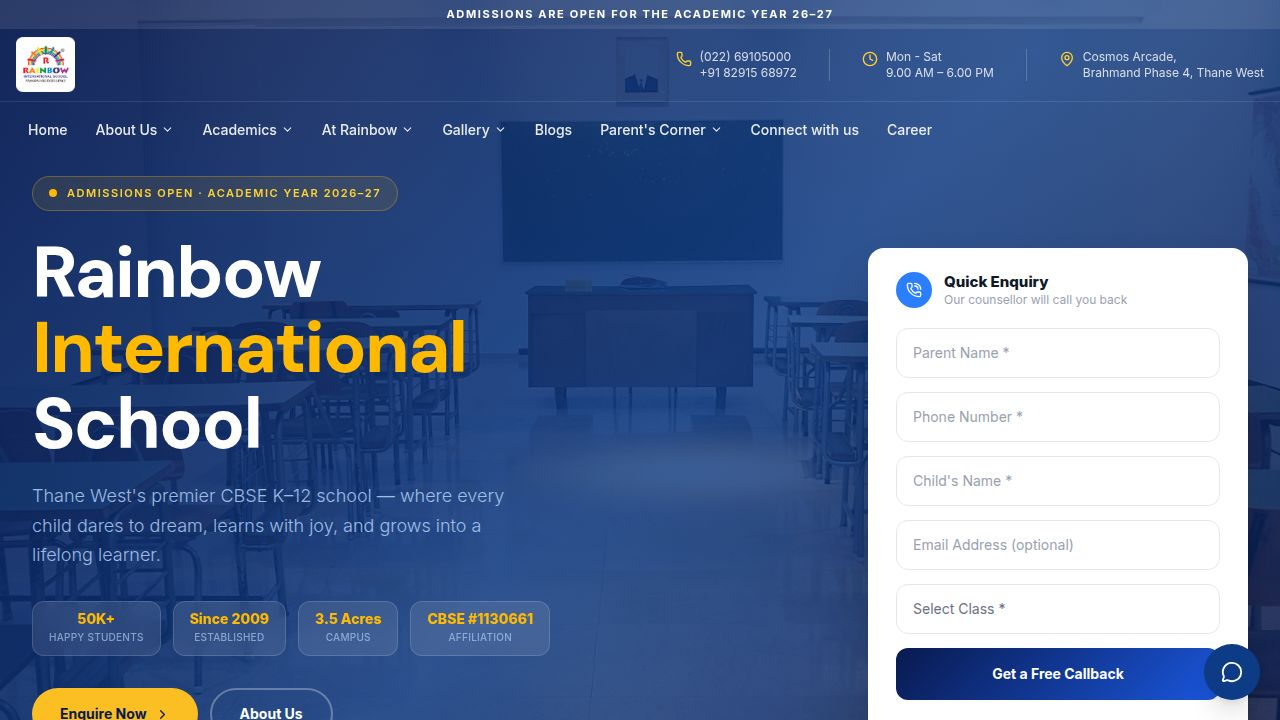
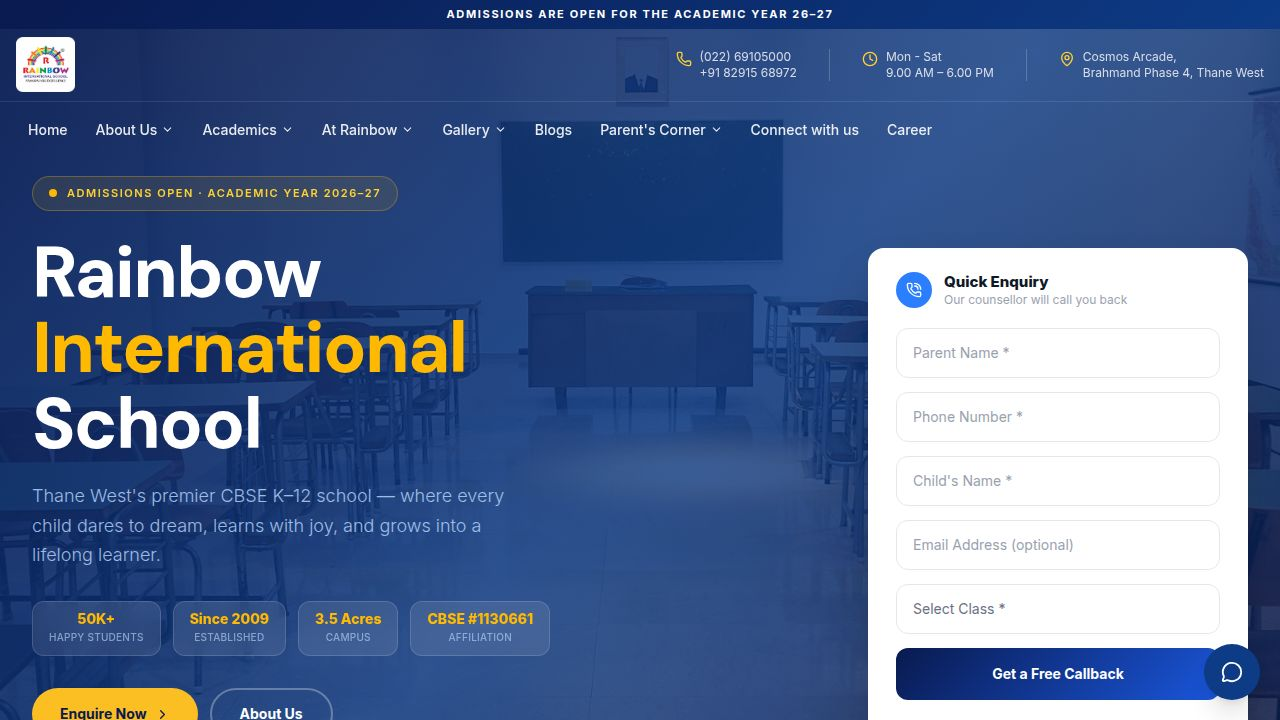
Add tracking of form submission source and page details
Integrate analytics to capture page path, title, and UTM parameters for form submissions, enhancing lead source tracking and reporting.

Replit-Commit-Author: Agent
Replit-Commit-Session-Id: 626ee0ab-79e0-4594-8c37-24950af4fe74
Replit-Commit-Checkpoint-Type: full_checkpoint
Replit-Commit-Event-Id: fc15009f-81f0-4377-a799-b3c8b0f3caf1
Replit-Commit-Screenshot-Url: https://storage.googleapis.com/screenshot-production-us-central1/3a7e2007-87f6-4891-a5f8-6a34c6a824f7/626ee0ab-79e0-4594-8c37-24950af4fe74/dzfqgXJ
Replit-Helium-Checkpoint-Created: true

Changed region(s): [[0.0, 0.0, 1.0, 0.0611]]

diff --git a/server/routes.ts b/server/routes.ts
@@ -33,6 +33,31 @@ function tableRow(label: string, value: string | undefined | null) {
   return `<tr><td style="padding:8px 14px;font-weight:bold;border-bottom:1px solid #eee;color:#091a4f;">${label}</td><td style="padding:8px 14px;border-bottom:1px solid #eee;">${value}</td></tr>`;
 }
 
+function getLeadSourceLabel(utmSource?: string | null, utmMedium?: string | null): string {
+  if (!utmSource && !utmMedium) return "Organic / Direct";
+  const src = (utmSource || "").toLowerCase();
+  const med = (utmMedium || "").toLowerCase();
+  if (src === "google" && (med === "cpc" || med === "paid" || med.includes("paid"))) return "Google Ads";
+  if (src === "facebook" || src === "instagram" || src === "meta") return "Meta Ads (Facebook/Instagram)";
+  if (med === "cpc" || med === "ppc" || med.includes("paid")) return `Paid Ads (${utmSource || "Unknown"})`;
+  if (med === "email") return "Email Campaign";
+  if (med === "social" || med === "organic_social") return `Social Media (${utmSource || "Unknown"})`;
+  if (med === "referral") return `Referral (${utmSource || "Unknown"})`;
+  return utmSource || "Organic / Direct";
+}
+
+function getMediumLabel(utmMedium?: string | null): string {
+  if (!utmMedium) return "Direct";
+  const med = utmMedium.toLowerCase();
+  if (med === "cpc" || med === "ppc") return "Paid Search";
+  if (med === "display") return "Display Ads";
+  if (med === "social" || med === "paid_social") return "Social";
+  if (med === "email") return "Email";
+  if (med === "referral") return "Referral";
+  if (med === "organic") return "Organic Search";
+  return utmMedium;
+}
+
 async function sendInquiryEmail(data: {
   parentName: string;
   email?: string | null;
@@ -41,12 +66,29 @@ async function sendInquiryEmail(data: {
   grade: string;
   preferredTime?: string | null;
   message?: string | null;
+  pagePath?: string | null;
+  pageTitle?: string | null;
+  formLocation?: string | null;
+  utmSource?: string | null;
+  utmMedium?: string | null;
+  utmCampaign?: string | null;
+  utmTerm?: string | null;
+  utmContent?: string | null;
 }) {
   const mailer = getTransporter();
   if (!mailer) {
     console.log("[inquiry] SMTP not configured — skipping email. Inquiry saved to DB.");
     return;
   }
+
+  const leadSource = getLeadSourceLabel(data.utmSource, data.utmMedium);
+  const leadMedium = getMediumLabel(data.utmMedium);
+  const isPaid = leadSource !== "Organic / Direct";
+
+  const formLocationLabel = data.formLocation || (data.pagePath === "/" ? "Homepage" : data.pagePath || "Unknown");
+  const pageLabel = data.pageTitle
+    ? `${data.pageTitle} (${data.pagePath || "/"})`
+    : data.pagePath || "/";
 
   await mailer.transport.sendMail({
     from: mailer.from,
@@ -68,6 +110,21 @@ async function sendInquiryEmail(data: {
           ${tableRow("Preferred Time", data.preferredTime)}
           ${tableRow("Message", data.message)}
         </table>
+
+        <div style="margin-top:16px;background:#f0f4ff;border:1px solid #d1daf0;border-radius:8px;padding:16px;">
+          <h3 style="margin:0 0 10px;font-size:14px;color:#091a4f;">📍 Submission Details</h3>
+          <table style="width:100%;border-collapse:collapse;font-size:13px;">
+            ${tableRow("Submitted From Page", pageLabel)}
+            ${tableRow("Form Location", formLocationLabel)}
+            ${tableRow("Lead Source", leadSource)}
+            ${tableRow("Lead Medium", leadMedium)}
+            ${isPaid ? tableRow("Campaign", data.utmCampaign) : ""}
+            ${isPaid ? tableRow("Ad Keyword / Term", data.utmTerm) : ""}
+            ${isPaid ? tableRow("Ad Content / Variant", data.utmContent) : ""}
+            ${isPaid ? tableRow("Platform", data.utmSource) : ""}
+          </table>
+        </div>
+
         <p style="color:#888;font-size:12px;margin-top:16px;padding:0 4px;">Submitted via the school website enquiry form.</p>
       </div>
     `,

diff --git a/shared/schema.ts b/shared/schema.ts
@@ -13,6 +13,14 @@ export const inquiries = pgTable("inquiries", {
   preferredTime: text("preferred_time"),
   source: text("source"),
   message: text("message"),
+  pagePath: text("page_path"),
+  pageTitle: text("page_title"),
+  formLocation: text("form_location"),
+  utmSource: text("utm_source"),
+  utmMedium: text("utm_medium"),
+  utmCampaign: text("utm_campaign"),
+  utmTerm: text("utm_term"),
+  utmContent: text("utm_content"),
   createdAt: timestamp("created_at").defaultNow().notNull(),
 });
 
@@ -28,6 +36,14 @@ export const insertInquirySchema = createInsertSchema(inquiries).omit({
   preferredTime: z.string().optional().or(z.literal("")),
   email: z.string().email("Please enter a valid email").optional().or(z.literal("")),
   message: z.string().optional().or(z.literal("")),
+  pagePath: z.string().optional().or(z.literal("")),
+  pageTitle: z.string().optional().or(z.literal("")),
+  formLocation: z.string().optional().or(z.literal("")),
+  utmSource: z.string().optional().or(z.literal("")),
+  utmMedium: z.string().optional().or(z.literal("")),
+  utmCampaign: z.string().optional().or(z.literal("")),
+  utmTerm: z.string().optional().or(z.literal("")),
+  utmContent: z.string().optional().or(z.literal("")),
 });
 
 export type InsertInquiry = z.infer<typeof insertInquirySchema>;

diff --git a/client/src/components/home/ContactForm.tsx b/client/src/components/home/ContactForm.tsx
@@ -4,7 +4,7 @@ import { zodResolver } from "@hookform/resolvers/zod";
 import { insertInquirySchema, type InsertInquiry } from "@shared/schema";
 import { toast } from "sonner";
 import { Send, MapPin, Phone, Mail, Clock, CheckCircle } from "lucide-react";
-import { trackFormSubmit, trackCallClick, trackDirectionsClick } from "@/lib/analytics";
+import { trackFormSubmit, trackCallClick, trackDirectionsClick, getFormTrackingData } from "@/lib/analytics";
 
 const classOptions = [
   "Nursery", "Jr. KG", "Sr. KG",
@@ -60,10 +60,11 @@ export function ContactForm() {
   const onSubmit = async (data: InsertInquiry) => {
     setIsSubmitting(true);
     try {
+      const trackingData = getFormTrackingData("Contact Section Form");
       const response = await fetch("/api/inquiries", {
         method: "POST",
         headers: { "Content-Type": "application/json" },
-        body: JSON.stringify(data),
+        body: JSON.stringify({ ...data, ...trackingData }),
       });
       if (!response.ok) throw new Error("Failed");
       trackFormSubmit({

diff --git a/client/src/components/home/Hero.tsx b/client/src/components/home/Hero.tsx
@@ -5,7 +5,7 @@ import { zodResolver } from "@hookform/resolvers/zod";
 import { insertInquirySchema, type InsertInquiry } from "@shared/schema";
 import { toast } from "sonner";
 import { PhoneCall, ChevronRight, CheckCircle2, CheckCircle } from "lucide-react";
-import { trackFormSubmit } from "@/lib/analytics";
+import { trackFormSubmit, getFormTrackingData } from "@/lib/analytics";
 
 const classOptions = [
   "Nursery", "Jr. KG", "Sr. KG",
@@ -32,10 +32,11 @@ export function Hero() {
   const onSubmit = async (data: InsertInquiry) => {
     setIsSubmitting(true);
     try {
+      const trackingData = getFormTrackingData("Hero Quick Enquiry");
       const res = await fetch("/api/inquiries", {
         method: "POST",
         headers: { "Content-Type": "application/json" },
-        body: JSON.stringify(data),
+        body: JSON.stringify({ ...data, ...trackingData }),
       });
       if (!res.ok) throw new Error();
       trackFormSubmit({

diff --git a/client/src/lib/analytics.ts b/client/src/lib/analytics.ts
@@ -157,6 +157,20 @@ export function getUTMParams(): Record<string, string> {
   };
 }
 
+export function getFormTrackingData(formLocation: string) {
+  const utm = getUTMParams();
+  return {
+    pagePath: window.location.pathname,
+    pageTitle: document.title,
+    formLocation,
+    utmSource: utm.utm_source,
+    utmMedium: utm.utm_medium,
+    utmCampaign: utm.utm_campaign,
+    utmTerm: utm.utm_term,
+    utmContent: utm.utm_content,
+  };
+}
+
 export function resetFormTracking(): void {
   lastFormSubmitTime = 0;
 }
